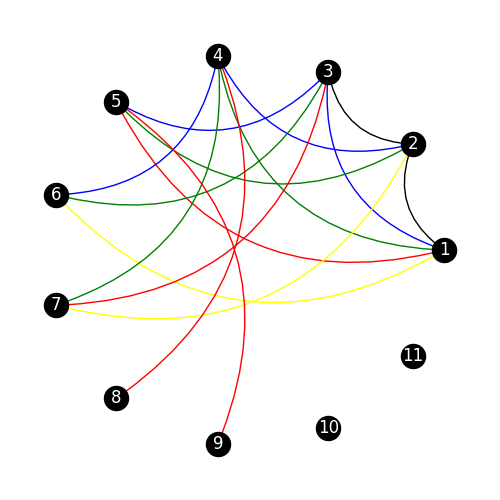
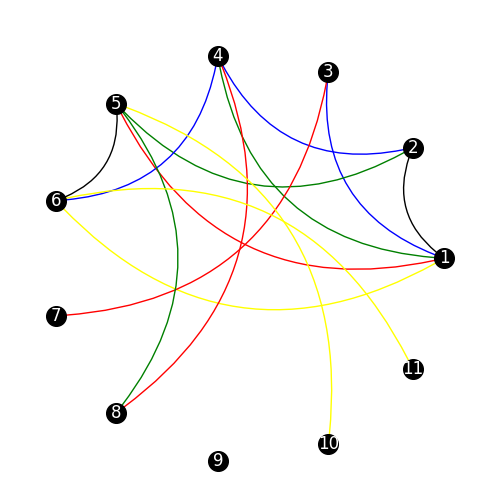
app config

diff --git a/MagicCircle/GUI.py b/MagicCircle/GUI.py
@@ -1,5 +1,7 @@
 import tkinter as tk
 from tkinter import ttk
+from tkinter import *
+
 import draw
 import os
 
@@ -8,7 +10,7 @@ MODULE_DIR = os.path.dirname(os.path.abspath(__file__))
 root = tk.Tk()
 root.minsize(400, 500)
 
-draw.draw(-1, "", "", "", "", 0, "circular")
+draw.draw(-1, "", "", "", "", 0, "circular", True, True, 300)
 
 # Create the labels for each field.
 level_label = ttk.Label(root, text="Level:")
@@ -19,6 +21,22 @@ range_label = ttk.Label(root, text="Range:")
 radius_label = ttk.Label(root, text="Line Radius:")
 graph_label = ttk.Label(root, text="Graph Type:")
 image = tk.PhotoImage(file=os.path.join(MODULE_DIR, "fig.png"))
+node_label:Checkbutton = ttk.Checkbutton(root, text="Node Label")
+edge_color:Checkbutton = ttk.Checkbutton(root, text="Edge Color")
+node_size_label = ttk.Label(root, text="Node Size:")
+
+# set checkboxs to selected by default
+node_label.selection_clear()
+edge_color.selection_clear()
+
+lbls = [level_label, school_label, dmg_type_label,
+                  area_type_label, range_label]
+for lbl in lbls:
+    
+    # add ■ to the left of the label in red color
+    c = ["black", "blue", "green", "red", "#FDDA0D", "orange", "purple", "pink"].__getitem__(lbls.index(lbl))
+    lbl.config(foreground=c, text="■ " + lbl.cget("text"))
+
 
 schools = ["abjuration", "conjuration", "divination", "enchantment", "evocation", "illusion", "necromancy", "transmutation"]
 
@@ -39,7 +57,7 @@ ranges = ["10ft radius", "100ft line", "15ft cone", "15ft cube",
             "60ft point", "90ft point", "self", "sight",
             "special", "touch"]
 
-figures = ["circular","kamada_kawai","random","shell"]
+figures = ["circular","kamada_kawai","random","shell","planar","spring"]
 
 # Create the entry boxes for each field and pack them and pin to left side
 level_entry = ttk.Entry(root)
@@ -49,6 +67,7 @@ area_type_entry = ttk.Combobox(root, values=area_types)
 range_entry = ttk.Combobox(root, values=ranges)
 radius_entry = ttk.Entry(root)
 graph_entry = ttk.Combobox(root, values=figures)
+node_size_entry = ttk.Entry(root)
 
 # Create the buttons to submit and clear the form.
 submit_button = ttk.Button(root, text="Submit")
@@ -60,6 +79,8 @@ clear_button = ttk.Button(root, text="Clear", command=lambda: [
     range_entry.delete(0, tk.END),
     radius_entry.delete(0, tk.END),
     graph_entry.delete(0, tk.END),
+    node_label.selection_clear(),
+    edge_color.selection_clear()
 ])
 
 def validate_level(widget):
@@ -101,7 +122,8 @@ def submit_button_clicked():
     graph = graph_entry.get()
 
     # Draw the spell effect.
-    draw.draw(level, school, dmg_type, area_type, range, radius, graph)
+    draw.draw(level, school, dmg_type, area_type, range, radius, graph, node_label.instate(["selected"]), edge_color.instate(["selected"]),
+              float(node_size_entry.get())*100 if node_size_entry.get() != "" else 300)
 
     image.configure(file=os.path.join(MODULE_DIR, "fig.png"))
 
@@ -131,6 +153,10 @@ radius_label.pack()
 radius_entry.pack()
 graph_label.pack()
 graph_entry.pack()
+node_label.pack()
+edge_color.pack()
+node_size_label.pack()
+node_size_entry.pack()
 submit_button.pack()
 clear_button.pack()
 

diff --git a/MagicCircle/draw.py b/MagicCircle/draw.py
@@ -4,12 +4,7 @@ import matplotlib.pyplot as plt
 import networkx as nx
 import os
 
-plt.rcParams["figure.figsize"] = [5, 5]
-plt.rcParams["figure.autolayout"] = True
-
-G = nx.Graph()
 n = 11
-G.add_nodes_from([x+1 for x in range(n)])
 
 def add_edges(G: nx.Graph, conn: int):
     for i in range(n):
@@ -94,12 +89,22 @@ def props_to_mat(level:int=-1, school:str="", dmg_type: str="", area_type: str="
     mat[4] = set_range(range_) if range_ != "" else [0 for x in range(n+1)]
     return mat
 
-def draw(level, school, dmg_type, area_type, range_, radius, graph_type):
+def draw(level, school, dmg_type, area_type, range_, radius, graph_type, node_label, edge_color, node_size):
+
+    plt.rcParams["figure.figsize"] = [5, 5]
+    plt.rcParams["figure.autolayout"] = True
+
+    G = nx.Graph()
+    G.add_nodes_from([x+1 for x in range(n)])
+
     graph(G, props_to_mat(level=level, school=school, dmg_type=dmg_type, area_type=area_type, range_=range_))
 
     plt.figure()
     plt.axis("off")
-    edge_color = [edge_color_func(n1, n2) for n1, n2 in G.edges()]
+    if edge_color:
+        edge_color = [edge_color_func(n1, n2) for n1, n2 in G.edges()]
+    else:
+        edge_color = ["black" for _ in G.edges()]
     if graph_type == "circular":
         pos = nx.circular_layout(G)
     elif graph_type == "kamada_kawai":
@@ -108,8 +113,15 @@ def draw(level, school, dmg_type, area_type, range_, radius, graph_type):
         pos = nx.random_layout(G)
     elif graph_type == "shell":
         pos = nx.shell_layout(G)
+    elif graph_type == "planar":
+        pos = nx.planar_layout(G)
+    elif graph_type == "spring":
+        pos = nx.spring_layout(G, k=1)
+    else:
+        pos = nx.circular_layout(G)
     pos = {n: pos[n] for n in sorted(G.nodes(), key=lambda n: n)}
-    nx.draw(G, node_color="black", edge_color=edge_color, width=1, with_labels=True, font_color="white", pos=pos, arrows=True, connectionstyle=f"arc3,rad={radius}")
+    nx.draw(G, node_color="black", edge_color=edge_color, width=1, with_labels=node_label, font_color="white", pos=pos, arrows=True, connectionstyle=f"arc3,rad={radius}",
+            node_size=node_size)
     MODULE_DIR = os.path.dirname(os.path.abspath(__file__))
     if os.path.exists(os.path.join(MODULE_DIR, "fig.png")):
         os.remove(os.path.join(MODULE_DIR, "fig.png"))
